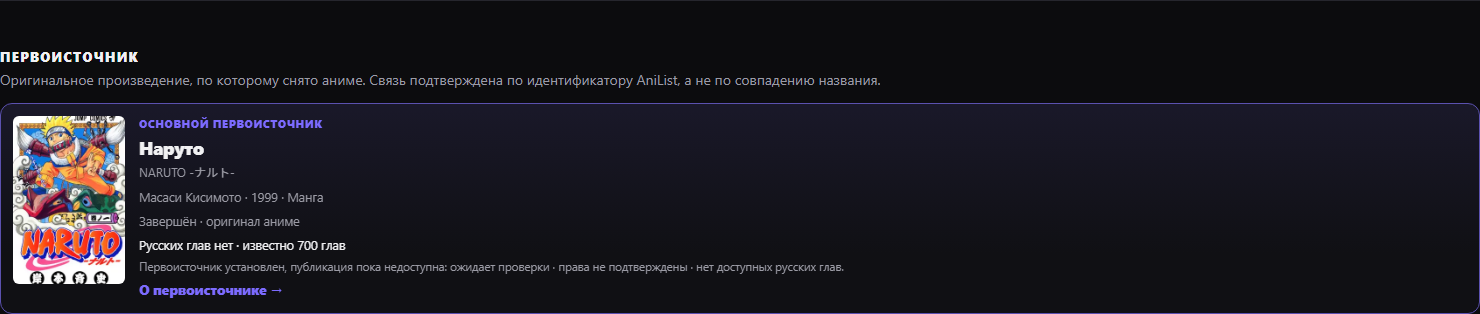
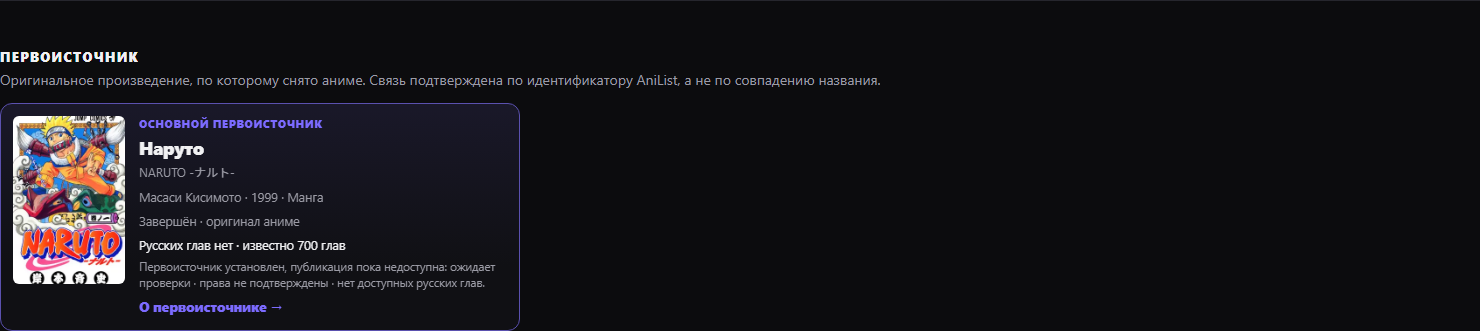
style(preview): natural card width for B1-C source/adaptation blocks
- карточка первоисточника больше не растягивается на всю ширину 1440+;
- TV-режим получает крупную карточку (460–780 px) и CTA-ссылку высотой 52 px;
- замеры переведены на медиану из 3 прогонов (холодный кэш), отчёты обновлены;
- скриншоты и docs/design/b1c/perf.json пересняты.

Changed region(s): [[0.0, 0.2293, 1.0, 1.0], [0.0, 0.1433, 0.0932, 0.2006], [0.0932, 0.9172, 0.1865, 0.9459]]

diff --git a/app/preview/aninova-3/a3.css b/app/preview/aninova-3/a3.css
@@ -2893,8 +2893,16 @@
 /* ── B1-C: уточнения карточек первоисточника ──────────────────
    Блок добавляет только новые состояния (основной первоисточник, флаг
    непроверенного названия, статичная глава) и не переопределяет токены A+C. */
+.a3-source-grid {
+  /* Карточка не растягивается на всю ширину 1440+: у первоисточника
+     естественная ширина, а не рекламный баннер. */
+  grid-template-columns: repeat(auto-fill, minmax(320px, 520px));
+}
 .a3-source-grid--multi {
-  grid-template-columns: repeat(auto-fit, minmax(340px, 1fr));
+  grid-template-columns: repeat(auto-fill, minmax(340px, 640px));
+}
+.a3-adaptation-grid {
+  grid-template-columns: repeat(auto-fill, minmax(260px, 340px));
 }
 .a3-source-card {
   position: relative;
@@ -2946,8 +2954,24 @@
 .a3[data-tv='true'] .a3-adaptation.is-primary {
   box-shadow: inset 0 0 0 2px color-mix(in srgb, var(--a3-accent) 55%, transparent);
 }
+.a3[data-tv='true'] .a3-source-grid {
+  grid-template-columns: repeat(auto-fill, minmax(460px, 780px));
+}
+.a3[data-tv='true'] .a3-adaptation-grid {
+  grid-template-columns: repeat(auto-fill, minmax(320px, 520px));
+}
+/* Цель для пульта: ссылка-переход не меньше 48 px по высоте и крупный текст. */
+.a3[data-tv='true'] .a3-source-card .a3-link {
+  display: inline-flex;
+  align-items: center;
+  min-height: 52px;
+  font-size: 20px;
+  padding: 0 4px;
+}
 @media (max-width: 900px) {
-  .a3-source-grid--multi {
+  .a3-source-grid--multi,
+  .a3-source-grid,
+  .a3-adaptation-grid {
     grid-template-columns: 1fr;
   }
 }

diff --git a/docs/ANINOVA_3_B1C_QA.md b/docs/ANINOVA_3_B1C_QA.md
@@ -111,24 +111,25 @@ if (el.closest('details:not([open])') && !el.closest('summary')) return false;
 
 Проверено тестом №8 и повторным прогоном всего e2e (35 passed, без регрессий в B1-B-сценариях).
 
-## 6. Замеры (§14, локально, холодный кэш, 1440)
+## 6. Замеры (§14, локально, холодный кэш, 1440, медиана из 3 прогонов)
 
 | Маршрут | DOM | Запросов | JS | CSS | HTML+RSC | LCP | CLS | TTFB |
 |---|---|---|---|---|---|---|---|---|
-| Аниме без первоисточника | 526 | 54 | 248.3 КБ | 165.6 КБ | 114.3 КБ | 164 мс | 0 | 21 мс |
-| Аниме с одним первоисточником | 555 | 56 | 248.3 КБ | 130.3 КБ | 120.7 КБ | 176 мс | 0 | 22 мс |
-| Страница манги с адаптацией | 172 | 38 | 274.9 КБ | 65.8 КБ | 32.8 КБ | 136 мс | 0 | 9 мс |
-| Каталог Comics | 255 | 46 | 244.4 КБ | 36.1 КБ | 42.6 КБ | 136 мс | 0 | 8 мс |
+| Аниме без первоисточника | 534 | 54 | 248.3 КБ | 165.7 КБ | 115.0 КБ | 184 мс | 0 | 25 мс |
+| Аниме с одним первоисточником | 553 | 56 | 248.3 КБ | 130.3 КБ | 120.6 КБ | 192 мс | 0 | 28 мс |
+| Страница манги с адаптацией | 164 | 38 | 274.9 КБ | 65.8 КБ | 32.2 КБ | 136 мс | 0 | 9 мс |
+| Каталог Comics | 257 | 46 | 244.4 КБ | 36.2 КБ | 42.8 КБ | 144 мс | 0 | 9 мс |
 
-Маржинальный вклад блока первоисточника: **+29 DOM, +2 запроса (изображение обложки), +6.4 КБ RSC,
-0 байт клиентского JS, CLS 0**. INP не измерялся: production-трафика и реального устройства нет.
+Маржинальный вклад блока первоисточника: **+19 DOM, +2 запроса (изображение обложки), +5.6 КБ RSC,
+0 байт клиентского JS, LCP +8 мс, CLS 0**. INP не измерялся: production-трафика и реального устройства нет.
+Сырые LCP-прогоны (`lcpRuns`) лежат в `docs/design/b1c/perf.json`.
 
 Сравнение с B1-B:
 
 - клиентский JS: **не вырос** — новые компоненты серверные (`A3SourceSection`, `A3AdaptationSection` без `use client`);
 - новых зависимостей нет;
 - CSS: внутри уже существующего `a3.css` (preview-скоуп), production-стили не тронуты;
-- RSC: +6.4 КБ на страницу с блоком (текст карточки);
+- RSC: +5.6 КБ на страницу с блоком (текст карточки);
 - запросов: +2 (обложка первоисточника через существующий прокси `/img`).
 
 Числа B1-B для JS/DOM в отчёте B1-B не публиковались, поэтому прямое сравнение «до/после» по ним

diff --git a/docs/ANINOVA_3_B1C_REPORT.md b/docs/ANINOVA_3_B1C_REPORT.md
@@ -123,18 +123,17 @@ Production не изменён, деплоя нет, Supabase/Redis/секрет
 | Скриншоты | 19 файлов в `docs/design/b1c/screens/` |
 | Замеры | `docs/design/b1c/perf.json` |
 
-### 5.1. Локальные замеры (холодный кэш, Chromium, 1440)
+### 5.1. Локальные замеры (холодный кэш, Chromium, 1440, медиана из 3 прогонов)
 
-| Маршрут | DOM | Запросов | JS | CSS | HTML+RSC | LCP | CLS |
-|---|---|---|---|---|---|---|---|
-| Аниме без первоисточника | 526 | 54 | 248.3 КБ | 165.6 КБ | 114.3 КБ | 164 мс | 0 |
-| Аниме с первоисточником | 555 | 56 | 248.3 КБ | 130.3 КБ | 120.7 КБ | 176 мс | 0 |
-| Страница комикса с адаптацией | 172 | 38 | 274.9 КБ | 65.8 КБ | 32.8 КБ | 136 мс | 0 |
-| Каталог Comics | 255 | 46 | 244.4 КБ | 36.1 КБ | 42.6 КБ | 136 мс | 0 |
+| Маршрут | DOM | Запросов | JS | CSS | HTML+RSC | LCP | CLS | TTFB |
+|---|---|---|---|---|---|---|---|---|
+| Аниме без первоисточника | 534 | 54 | 248.3 КБ | 165.7 КБ | 115.0 КБ | 184 мс | 0 | 25 мс |
+| Аниме с первоисточником | 553 | 56 | 248.3 КБ | 130.3 КБ | 120.6 КБ | 192 мс | 0 | 28 мс |
+| Страница комикса с адаптацией | 164 | 38 | 274.9 КБ | 65.8 КБ | 32.2 КБ | 136 мс | 0 | 9 мс |
+| Каталог Comics | 257 | 46 | 244.4 КБ | 36.2 КБ | 42.8 КБ | 144 мс | 0 | 9 мс |
 
-Вклад блока первоисточника: **+29 DOM-узлов, +6.4 КБ RSC/HTML, 0 байт клиентского JS**
-(новые компоненты — серверные), LCP в пределах локального шума, CLS 0.
-Это локальные значения, а не production-метрики.
+Вклад блока первоисточника: **+19 DOM-узлов, +2 запроса (обложка), +5.6 КБ RSC/HTML, 0 байт клиентского JS**,
+LCP +8 мс, CLS 0. Это локальные значения, а не production-метрики. Сырые LCP-прогоны — в `docs/design/b1c/perf.json`.
 
 ## 6. Производительность по требованиям §9.1
 

diff --git a/docs/ANINOVA_3_B1C_SOURCE_MATCHING.md b/docs/ANINOVA_3_B1C_SOURCE_MATCHING.md
@@ -93,8 +93,8 @@ Fuzzy-matching в публичной связи **не используется*
 | Нет больших массивов глав в RSC | в payload только поля карточки |
 | Кэш | файл графа читается один раз; Redis/Supabase не задействованы |
 
-Замер (локально, холодный кэш): аниме с первоисточником vs без — JS **248.3 КБ vs 248.3 КБ**
-(0 байт разницы), DOM +29 узлов, HTML+RSC +6.4 КБ, LCP 176 vs 164 мс, CLS 0.
+Замер (локально, холодный кэш, медиана из 3): аниме с первоисточником vs без — JS **248.3 КБ vs 248.3 КБ**
+(0 байт разницы), DOM 553 vs 534 (+19 узлов), HTML+RSC 120.6 vs 115.0 КБ (+5.6 КБ), LCP 192 vs 184 мс, CLS 0.
 Подробности — `docs/design/b1c/perf.json`.
 
 ## 6. Ограничения и следующий шаг
